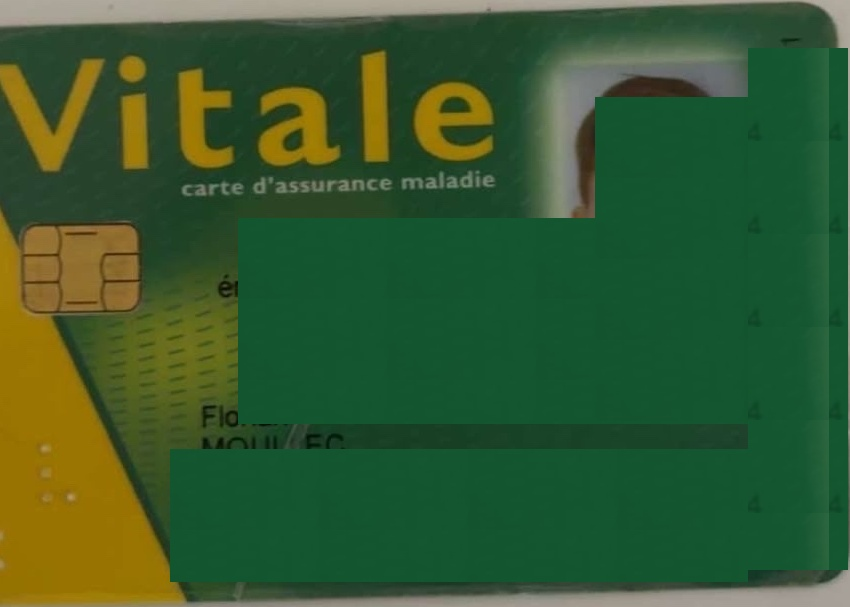
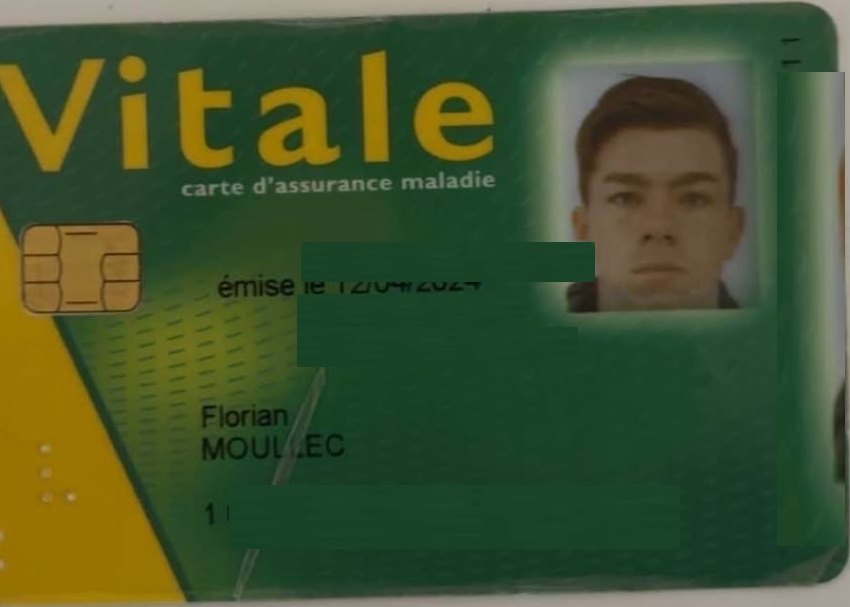
Show exact reference card for default generator values
Avoid visible green cover blocks: default preview uses the original
card photo, and edited values use a lightly scrubbed template overlay.

diff --git a/carte-vitale.html b/carte-vitale.html
@@ -82,56 +82,55 @@
 
   .cv-date {
     position: absolute;
-    left: 36%;
-    top: 40.5%;
-    width: 36%;
+    left: 37%;
+    top: 41%;
     color: var(--card-text);
-    font-size: clamp(0.62rem, 2.05vw, 0.92rem);
+    font-size: clamp(0.58rem, 1.9vw, 0.86rem);
     font-weight: 500;
     letter-spacing: 0.01em;
     white-space: nowrap;
+    line-height: 1;
   }
 
   .cv-name {
     position: absolute;
-    left: 36%;
-    top: 49%;
-    width: 34%;
+    left: 37%;
+    top: 49.5%;
     color: var(--card-text);
-    line-height: 1.15;
+    line-height: 1.12;
   }
   .cv-name .prenom {
-    font-size: clamp(0.78rem, 2.45vw, 1.08rem);
+    font-size: clamp(0.72rem, 2.25vw, 1rem);
     font-weight: 600;
   }
   .cv-name .nom {
-    font-size: clamp(0.78rem, 2.45vw, 1.08rem);
+    font-size: clamp(0.72rem, 2.25vw, 1rem);
     font-weight: 700;
     text-transform: uppercase;
   }
 
   .cv-nir {
     position: absolute;
-    left: 30%;
-    top: 82%;
-    width: 50%;
+    left: 31%;
+    top: 82.5%;
     color: var(--card-text);
-    font-size: clamp(0.78rem, 2.5vw, 1.12rem);
+    font-size: clamp(0.72rem, 2.35vw, 1.05rem);
     font-weight: 600;
-    letter-spacing: 0.05em;
+    letter-spacing: 0.045em;
     white-space: nowrap;
+    line-height: 1;
   }
 
   .cv-photo {
     position: absolute;
-    left: 74.2%;
-    top: 21.5%;
-    width: 14.6%;
-    height: 43%;
-    border-radius: 2px;
+    left: 74.8%;
+    top: 22%;
+    width: 13.7%;
+    height: 35.5%;
+    border-radius: 1px;
     overflow: hidden;
-    box-shadow: 0 0 0 1px rgba(255,255,255,.55), 0 0 18px rgba(255,255,255,.22);
-    background: #1a7a45;
+    box-shadow: 0 0 12px rgba(255,255,255,.28);
+    background: transparent;
   }
   .cv-photo img {
     width: 100%;
@@ -300,7 +299,27 @@
     };
   }
 
+  function isDefault(data) {
+    return data.prenom === defaults.prenom
+      && data.nom === defaults.nom
+      && data.nir === defaults.nir
+      && data.emise === formatDateFr(defaults.emise)
+      && data.serie === defaults.serie
+      && (data.photo === defaults.photo || !data.photo);
+  }
+
   function render(data) {
+    var card = document.getElementById('cvCard');
+    var def = isDefault(data);
+    // Même carte que la référence quand les données n'ont pas changé
+    card.style.backgroundImage = 'url("' + (def ? 'assets/carte-reference.jpg' : 'assets/carte-template.jpg') + '")';
+    var vis = def ? 'hidden' : 'visible';
+    document.querySelector('.cv-date').style.visibility = vis;
+    document.querySelector('.cv-name').style.visibility = vis;
+    document.querySelector('.cv-nir').style.visibility = vis;
+    document.querySelector('.cv-serial').style.visibility = vis;
+    document.getElementById('photoBox').style.visibility = def ? 'hidden' : 'visible';
+
     document.getElementById('outPrenom').textContent = data.prenom;
     document.getElementById('outNom').textContent = data.nom;
     document.getElementById('outNir').textContent = data.nir;
